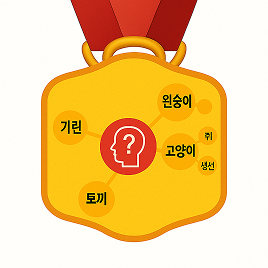
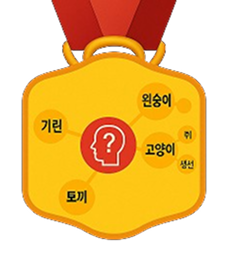
♻ refactor: 지식 그래프 형태 수정 (#56)
* ♻ refactor: 지식 그래프 노드 색상 변경

* 🐛 fix: 지식그래프 배경 border-radius 적용

* ♻ refactor: 지식 그래프 형태 수정

Changed region(s): [[0.0929, 0.0, 0.9292, 0.9608], [0.4027, 0.0, 0.4336, 0.0824]]

diff --git a/src/mocks/graphData.js b/src/mocks/graphData.js
@@ -1,32 +1,90 @@
 export const levelStyles = {
   0: {
-    // background: "red",
     size: "8vw",
     zoom: 6,
-    fontSize: { zoomIn: "1vw", zoomOut: "1.5vw" },
-    includeSentenceFontSize: "0.2vw",
+    fontSize: { zoomIn: "1rem", zoomOut: "1.8vw" },
+    includeSentenceFontSize: "0.3rem",
     nodeTitleContainerGap: "0.2vw",
     soundImgContainerWidth: "1vw",
-    soundImgContainerHeight: "0.8vw",
-    soundImgWidth: "0.5vw",
+    soundImgContainerHeight: "0.7vw",
+    soundImgWidth: "0.4vw",
   },
   1: {
-    // background: "orange2",
-    size: "6vw",
-    zoom: 9,
-    fontSize: { zoomIn: "0.9vw", zoomOut: "1.3vw" },
-    includeSentenceFontSize: "0.15vw",
+    size: "7vw",
+    zoom: 8,
+    fontSize: { zoomIn: "1.2rem", zoomOut: "1.5vw" },
+    includeSentenceFontSize: "0.3rem",
     nodeTitleContainerGap: "0.15vw",
     soundImgContainerWidth: "0.8vw",
     soundImgContainerHeight: "0.6vw",
     soundImgWidth: "0.3vw",
   },
   2: {
-    // background: "mainYellow",
+    size: "6vw",
+    zoom: 9,
+    fontSize: { zoomIn: "1rem", zoomOut: "1.3vw" },
+    includeSentenceFontSize: "0.25rem",
+    nodeTitleContainerGap: "0.1vw",
+    soundImgContainerWidth: "0.8vw",
+    soundImgContainerHeight: "0.6vw",
+    soundImgWidth: "0.3vw",
+  },
+  // 여기서부터
+  3: {
+    size: "5vw",
+    zoom: 10,
+    fontSize: { zoomIn: "0.9rem", zoomOut: "1.1vw" },
+    includeSentenceFontSize: "0.2rem",
+    nodeTitleContainerGap: "0.1vw",
+    soundImgContainerWidth: "0.7vw",
+    soundImgContainerHeight: "0.5vw",
+    soundImgWidth: "0.3vw",
+  },
+  4: {
     size: "4vw",
     zoom: 12,
-    fontSize: { zoomIn: "0.8vw", zoomOut: "1.2vw" },
-    includeSentenceFontSize: "0.1vw",
+    fontSize: { zoomIn: "0.8rem", zoomOut: "1vw" },
+    includeSentenceFontSize: "0.2rem",
+    nodeTitleContainerGap: "0.1vw",
+    soundImgContainerWidth: "0.6vw",
+    soundImgContainerHeight: "0.4vw",
+    soundImgWidth: "0.3vw",
+  },
+  5: {
+    size: "3vw",
+    zoom: 13,
+    fontSize: { zoomIn: "0.7rem", zoomOut: "0.9vw" },
+    includeSentenceFontSize: "0.15rem",
+    nodeTitleContainerGap: "0.1vw",
+    soundImgContainerWidth: "0.6vw",
+    soundImgContainerHeight: "0.4vw",
+    soundImgWidth: "0.3vw",
+  },
+  6: {
+    size: "2vw",
+    zoom: 14,
+    fontSize: { zoomIn: "0.6rem", zoomOut: "0.8vw" },
+    includeSentenceFontSize: "0.15rem",
+    nodeTitleContainerGap: "0.1vw",
+    soundImgContainerWidth: "0.6vw",
+    soundImgContainerHeight: "0.4vw",
+    soundImgWidth: "0.3vw",
+  },
+  7: {
+    size: "1.5vw",
+    zoom: 15,
+    fontSize: { zoomIn: "0.5rem", zoomOut: "0.7vw" },
+    includeSentenceFontSize: "0.1rem",
+    nodeTitleContainerGap: "0.1vw",
+    soundImgContainerWidth: "0.6vw",
+    soundImgContainerHeight: "0.4vw",
+    soundImgWidth: "0.3vw",
+  },
+  8: {
+    size: "1vw",
+    zoom: 16,
+    fontSize: { zoomIn: "0.4rem", zoomOut: "0.6vw" },
+    includeSentenceFontSize: "0.1rem",
     nodeTitleContainerGap: "0.1vw",
     soundImgContainerWidth: "0.6vw",
     soundImgContainerHeight: "0.4vw",

diff --git a/src/components/graph/graphFlow.jsx b/src/components/graph/graphFlow.jsx
@@ -12,6 +12,7 @@ import {
   forceManyBody,
   forceCenter,
   forceLink,
+  forceCollide
 } from "d3-force";
 import { useEditMode } from "../../contexts/editModeContext";
 import GraphNode from "./graphNode";
@@ -77,25 +78,37 @@ const GraphFlow = ({
     }));
 
     const simulation = forceSimulation(simNodes)
-      .force("charge", forceManyBody().strength(-500))
-      .force("center", forceCenter(centerX, centerY))
-      .force(
-        "link",
-        forceLink(simLinks)
-          .id((d) => d.id)
-          .distance((link) => {
-            const sourceLevel =
-              link.source.level ??
-              nodeData.find((n) => n.id === link.source.id)?.level;
-            const targetLevel =
-              link.target.level ??
-              nodeData.find((n) => n.id === link.target.id)?.level;
+  .force("charge", forceManyBody().strength(-100))
+  .force("center", forceCenter(centerX, centerY))
+  .force(
+    "link",
+    forceLink(simLinks)
+      .id((d) => d.id)
+      .distance((link) => {
+        const source = nodeData.find((n) => n.id === link.source);
+        const target = nodeData.find((n) => n.id === link.target);
+        const sourceLevel = source?.level ?? 1;
+        const targetLevel = target?.level ?? 1;
+        const levelGap = Math.abs(sourceLevel - targetLevel);
+        return 600 + levelGap * 200;
+      })
+  )
+  .force(
+    "collide",
+    forceCollide().radius((d) => {
+      const style = levelStyles[d.level] || levelStyles[1];
+      const nodeSize = parseFloat(style.size) || 50;
+      return (nodeSize / 2) + 60;
+    })
+  )
+  .stop();
 
-            if (sourceLevel === 0 || targetLevel === 0) return 400;
-            return 300;
-          })
-      )
-      .stop();
+const rootNode = simNodes.find((n) => n.level == 0);
+if (rootNode) {
+  rootNode.fx = centerX;
+  rootNode.fy = centerY;
+}
+
 
     for (let i = 0; i < 300; ++i) simulation.tick();
 

diff --git a/src/components/graph/graphNode.jsx b/src/components/graph/graphNode.jsx
@@ -56,7 +56,6 @@ const GraphNode = ({ id, data }) => {
   const interval = setInterval(checkZoom, 300);
   return () => clearInterval(interval);
 }, [getZoom, style.zoom, isZoomedIn, stop, onZoomStateChange]);
-  
 
   return (
     <G.NodeWrapper
@@ -78,7 +77,19 @@ const GraphNode = ({ id, data }) => {
             }
             <G.LabelP isZoomedIn={isZoomedIn} fontSize={isZoomedIn ? style.fontSize.zoomIn : style.fontSize.zoomOut} isEditMode={isEditMode}>{label}</G.LabelP>
           </G.NodeTitleContainer>
-          {isZoomedIn && <G.IncludeSentence isZoomedIn={isZoomedIn} fontSize={style.includeSentenceFontSize} isEditMode={isEditMode}>{includeSentence}</G.IncludeSentence>}
+          {isZoomedIn && 
+            <G.IncludeSentence isZoomedIn={isZoomedIn} fontSize={style.includeSentenceFontSize} isEditMode={isEditMode}>
+              {includeSentence
+                ?.split('.')
+                .filter((s) => s.trim() !== '')
+                .map((s, i) => (
+                <span key={i}>
+                    {s.trim()}.
+                    <br />
+                </span>
+    ))}
+            </G.IncludeSentence>
+          }
         </G.NodeLeftContainer>
 
         {isZoomedIn && image && (

diff --git a/src/styles/list/list.jsx b/src/styles/list/list.jsx
@@ -39,7 +39,6 @@ export const ItemContainer = styled.div`
 export const InnerItemContainer = styled.div`
     width: 100%;
     height: 12.85vw;
-    padding: 1vw;
     background: ${({ $backgroundImage }) => $backgroundImage ? `url(${$backgroundImage}) center/cover no-repeat` : `${colors.white}`};
     border-radius: 1.25vw;
     display: flex;
@@ -52,6 +51,7 @@ export const TopContainer = styled.div`
     display: flex;
     justify-content: space-between;
     align-items: flex-start;
+    padding-left: 1vw;
 `
 
 export const ItemQuizContainer = styled.div`
@@ -79,6 +79,7 @@ export const DeleteButton = styled.button`
     display: flex;
     justify-content: center;
     align-items: center;
+    margin: 1vw;
 `
 
 export const DeleteImg = styled.img`
@@ -91,6 +92,8 @@ export const BottomContainer = styled.div`
     display: flex;
     justify-content: right;
     gap: 1vw;
+    margin-bottom: 1vw;
+    padding-right: 1vw;
 `
 
 export const BottomButton = styled.button`

diff --git a/src/components/list/yesList/list-work.jsx b/src/components/list/yesList/list-work.jsx
@@ -2,7 +2,7 @@ import * as s from "../../../styles/list/list";
 import ItemWork from "./item-work";
 
 const ListWork = ({ data }) => {
-    // console.log(data);
+    console.log(data);
     return (
         <s.ListWorkContainer>
             {data.map((item) => (
@@ -11,9 +11,9 @@ const ListWork = ({ data }) => {
                     id={item.id}
                     title={item.title}
                     image={item.image}
-                    listenUpPerfect={item.listenUpPerfect}
-                    connectPerfect={item.connectPerfect}
-                    picturePerfect={item.picturePerfect}
+                    listenUpPerfect={item.listenQuiz}
+                    connectPerfect={item.connectQuiz}
+                    picturePerfect={item.pictureQuiz}
                 />
             ))}
         </s.ListWorkContainer>

diff --git a/src/styles/graph/graph.jsx b/src/styles/graph/graph.jsx
@@ -217,6 +217,7 @@ export const NodeContainer = styled.div`
 
 export const NodeLeftContainer = styled.div`
   width: 50%;
+  height: 100%;
 `;
 
 export const NodeRightContainer = styled.div`
@@ -227,6 +228,7 @@ export const NodeRightContainer = styled.div`
 
 export const LabelP = styled.p`
   width: 100%;
+  height: 10%;
   font-weight: 400;
   text-align: ${({ isZoomedIn }) => (isZoomedIn ? "left" : "center")};
   font-family: "Ownglyph_meetme-Rg";
@@ -236,6 +238,8 @@ export const LabelP = styled.p`
 `;
 
 export const IncludeSentence = styled.p`
+  width: 100%;
+  height: 70%;
   font-size: ${({ fontSize }) => fontSize};
   text-align: left;
   color: ${({ isEditMode, isZoomedIn }) =>
